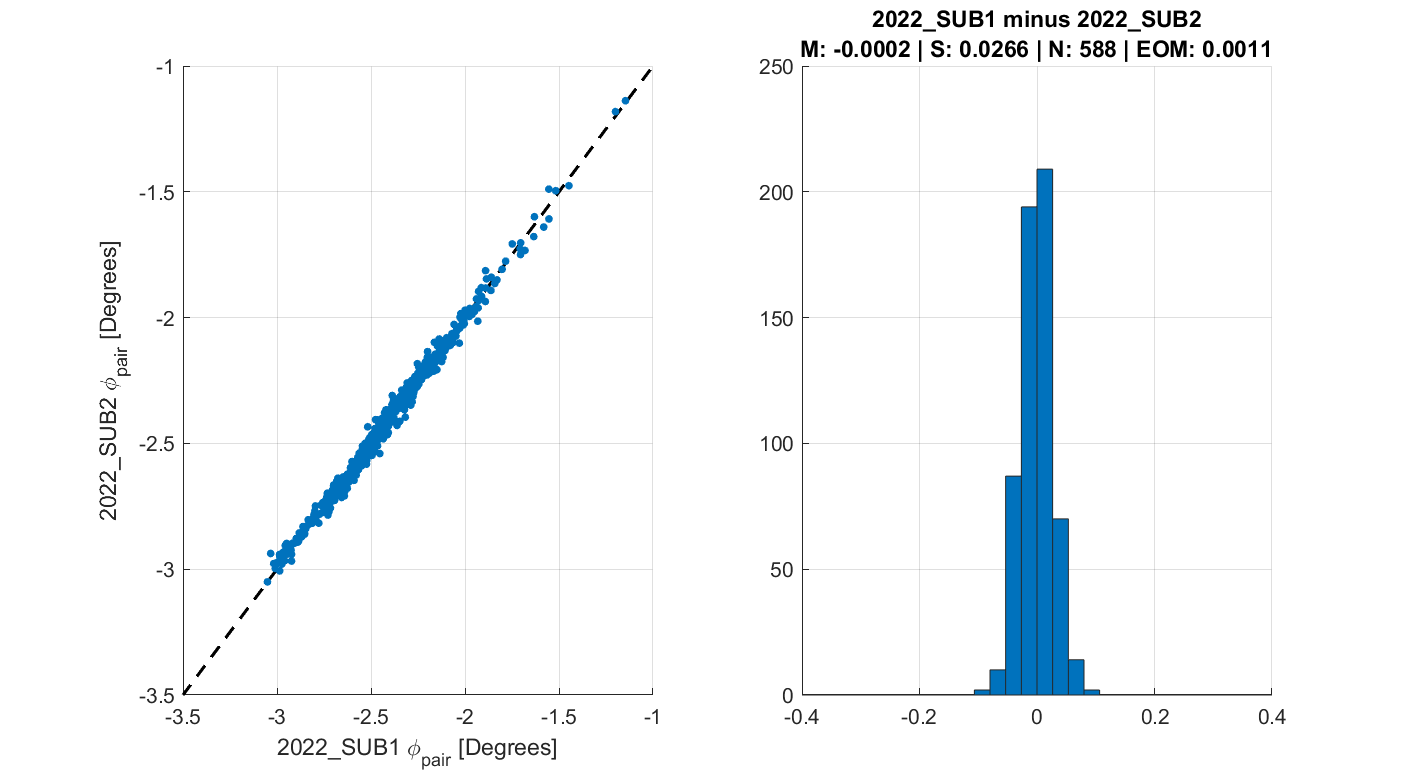
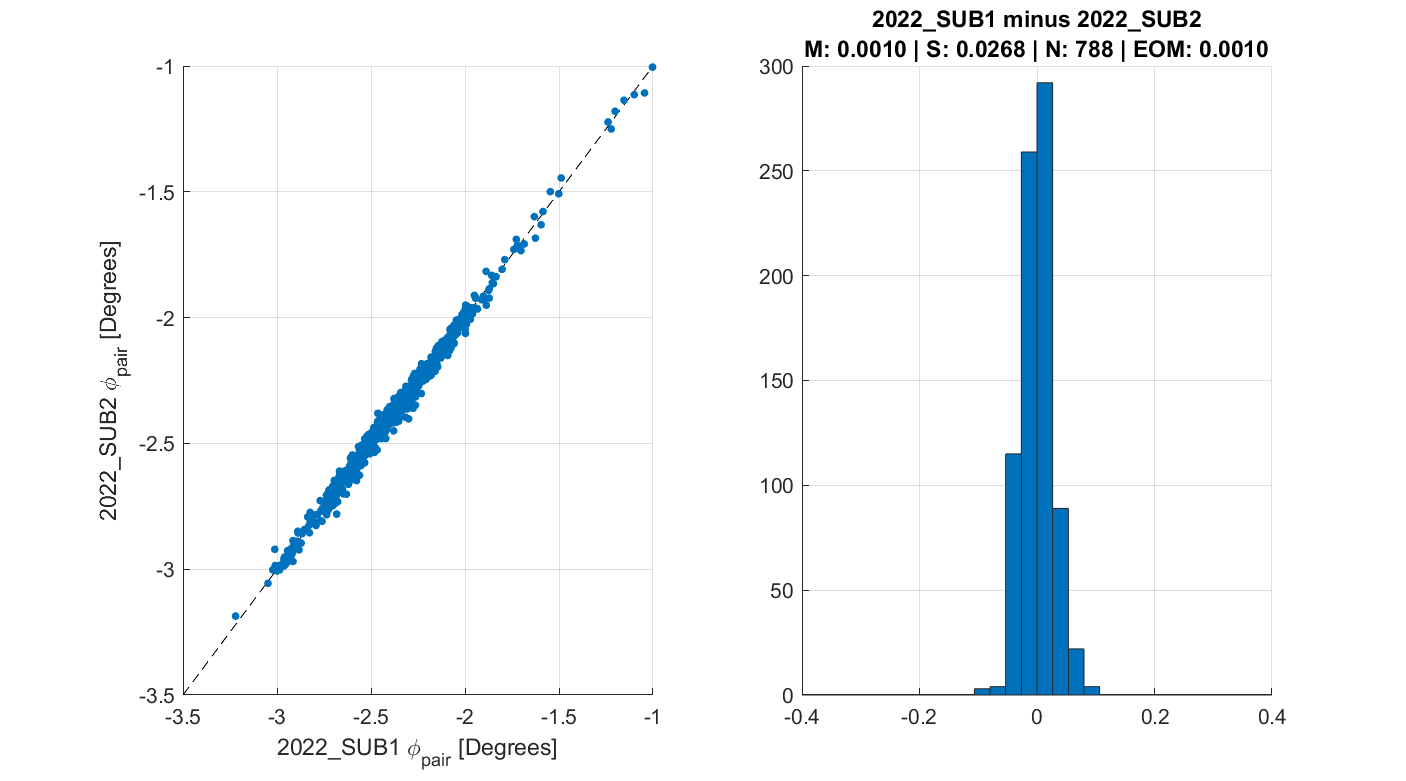
Updated plots for TAC meeting

diff --git a/2022mmdd_rps_angles_xpol/scripts/posting_plots_rps_analysis_2.m b/2022mmdd_rps_angles_xpol/scripts/posting_plots_rps_analysis_2.m
@@ -53,8 +53,8 @@ clc
 load('z:/dev/rps/rps_obs_info.mat')
 %load('z:/dev/rps/rps_beam_fits_type5_withbparam.mat')
 load('z:/dev/rps/rps_beam_fits_type5_21feb_rerun.mat');
-fd = rps_cut_fitdata(fd,p,p_ind,1);%,1,figdir);
-%fd = rps_cut_fitdata(fd,p,[]);%,1,figdir);
+%fd = rps_cut_fitdata(fd,p,p_ind,1);%,1,figdir);
+fd = rps_cut_fitdata(fd,p,[]);%,1,figdir);
 %
 %load('z:/dev/rps/rps_beam_fits_type5_21feb_rerun_cut_new_phi_s.mat')
 %fd.phi = fd.phi+fd.phi_s-fd.phi_s_new;
@@ -551,6 +551,7 @@ end
 [~, mi] = max(abs(M.*sqrt(N)./S));
 idx_max = idx(mi,:);
 [~, mi] = min(abs(M.*sqrt(N)./S));
+[~, mi] = min(abs(M)+S);
 idx_min = idx(mi,:);
 
 % Figure 3.2.1 Consistency Checks Part 2
@@ -570,7 +571,7 @@ valunits = {'\phi_{pair} [Degrees]','1-Poleff'};
 
 for valind = 1%1:size(V,1)
 
-    for pltind = 4%1:size(V,2)
+    for pltind = 1%1:size(V,2)
         V1ttl = ttls{1};
         V2ttl = ttls{pltind};
         if pltind == 1
@@ -625,7 +626,7 @@ for valind = 1%1:size(V,1)
             });
 
         fname = sprintf('consistplot_%s_2022_vs_%s.png',valnames{valind},pltnames{pltind});
-        %saveas(fig,fullfile(figdir,fname))
+        saveas(fig,fullfile(figdir,fname))
 
     end
 end

diff --git a/2023mmdd_isaac_data/scripts/isaac_tests.m b/2023mmdd_isaac_data/scripts/isaac_tests.m
@@ -768,6 +768,56 @@ for prefind = 8%26%6:length(prefix)
     end
     grid on
 
-
 end
+
+%% Isaac with/without homing and with/without backlash
+
+fig = figure(116468);
+fig.Position(3:4) = [440 470];
+clf; hold on;
+t = tiledlayout('flow');
+t.Padding = 'compact';
+t.TileSpacing = 'compact';
+
+vals = [12, 20, 27, 34];
+valttls = {'No Backlash, No Homing','No Backlash, With Homing','With Backlash, No homing','With Backlash, With Homing'};
+edges = linspace(-1,1,30)*0.2;
+
+for valind = 1:length(vals)
+nexttile()
+idx = fd.schnum == vals(valind);
+V = fd.phi(idx)-fd.phi_isaac(idx);
+V = V-nanmean(V);
+N = histc(V,edges);
+S = nanstd(V);
+L = length(V);
+bar(edges,N,'histc');
+grid on;
+ttl = '';
+ylbl = '';
+if valind == 1
+    ttl = 'No Homing';
+    ylbl = 'No Backlash';
+elseif valind == 2
+    ttl = 'With Homing';
+elseif valind ==3
+    ylbl = 'With Backlash';
+end
+
+ylabel(ylbl)
+title({ttl,...
+    sprintf('S Dev: %0.3f | N: %i',S,L)...
+    })
+pbaspect([1 1 1])
+if valind>2
+xlabel('Pol Angle (mean-subtracted) [Deg]')
+end
+end
+
+fname = 'isaac_homing_vs_backlash.png';
+exportgraphics(fig,fullfile(figdir,fname),'Resolution',1200)
+
+
+
+
 
